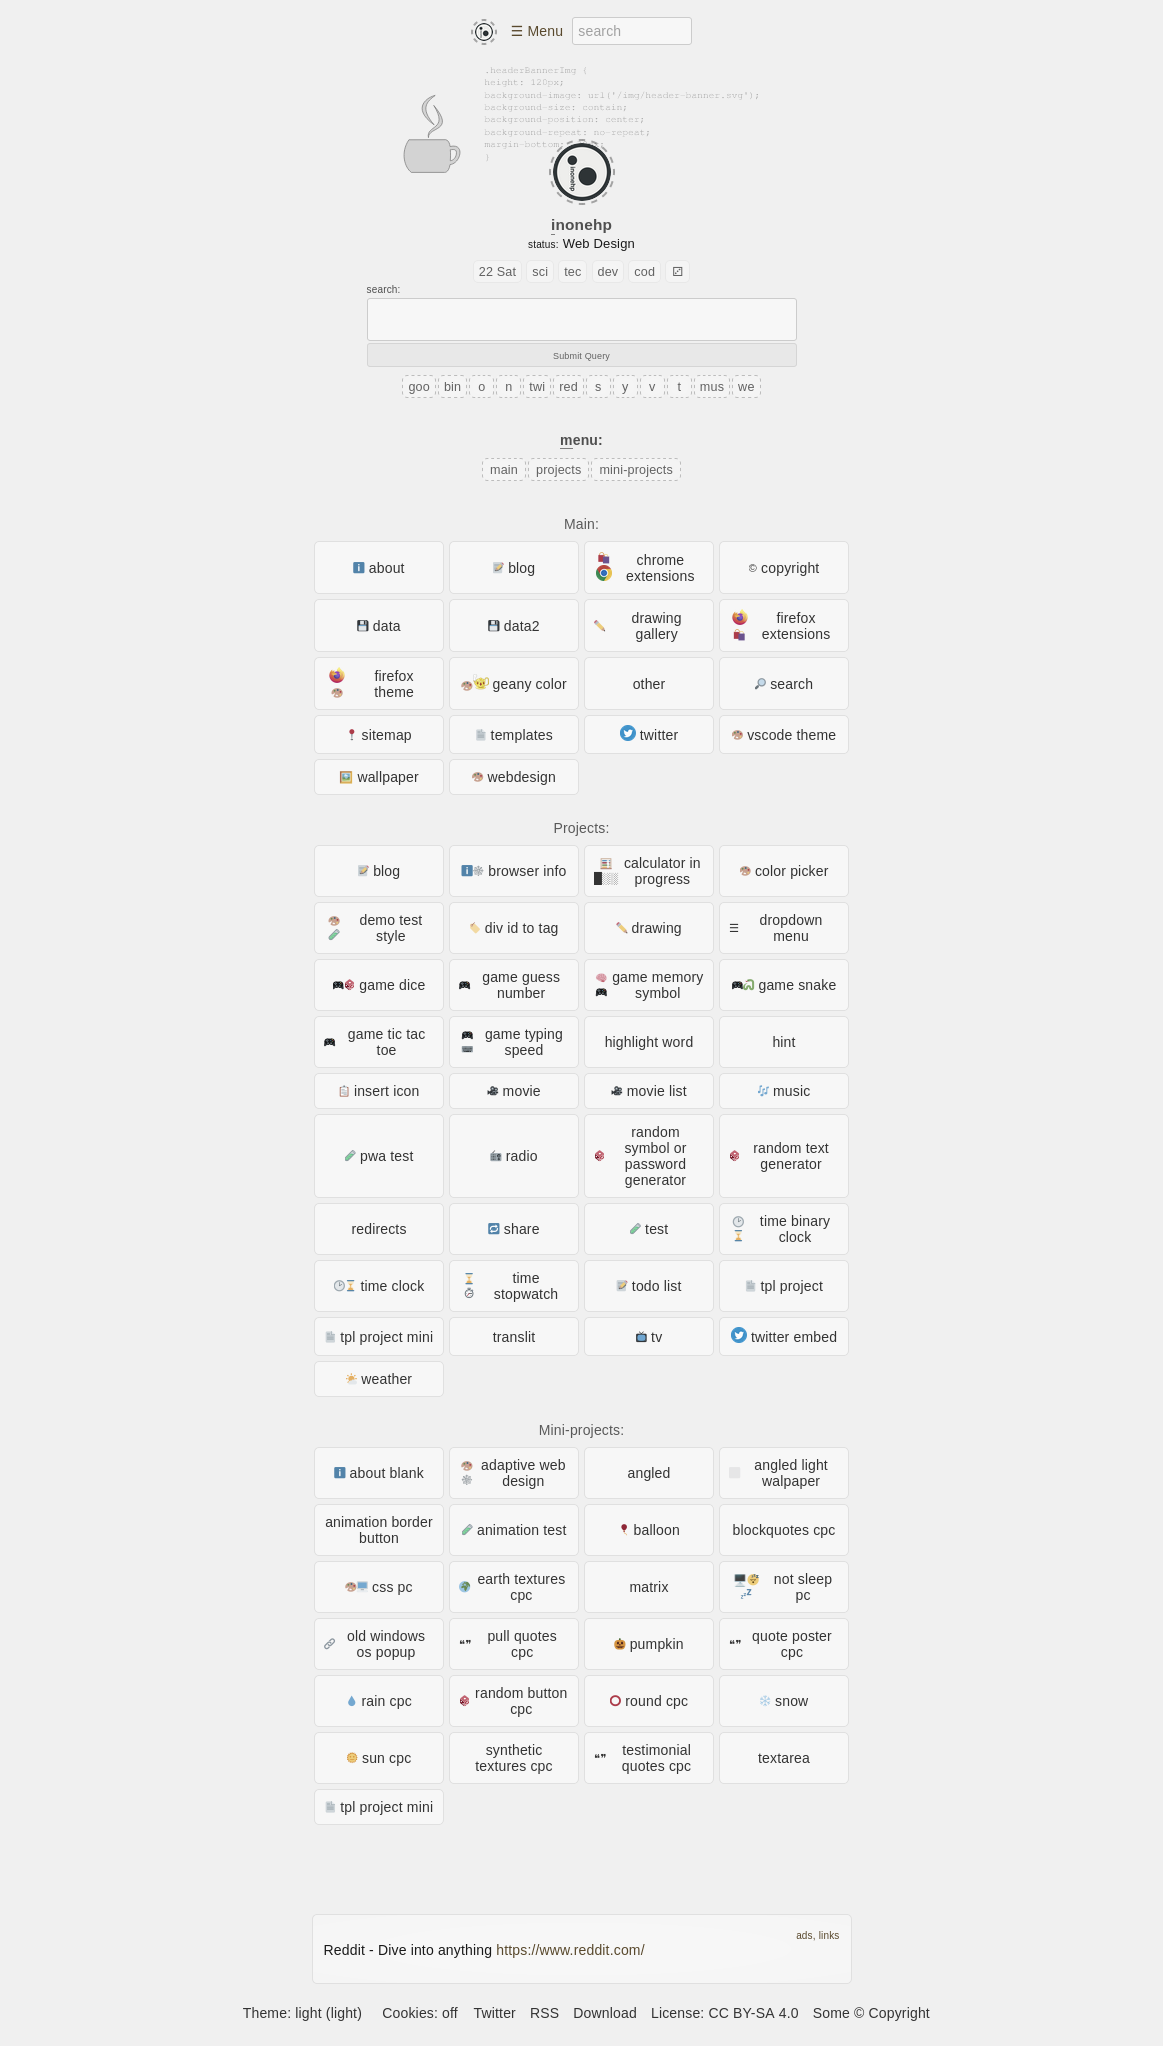
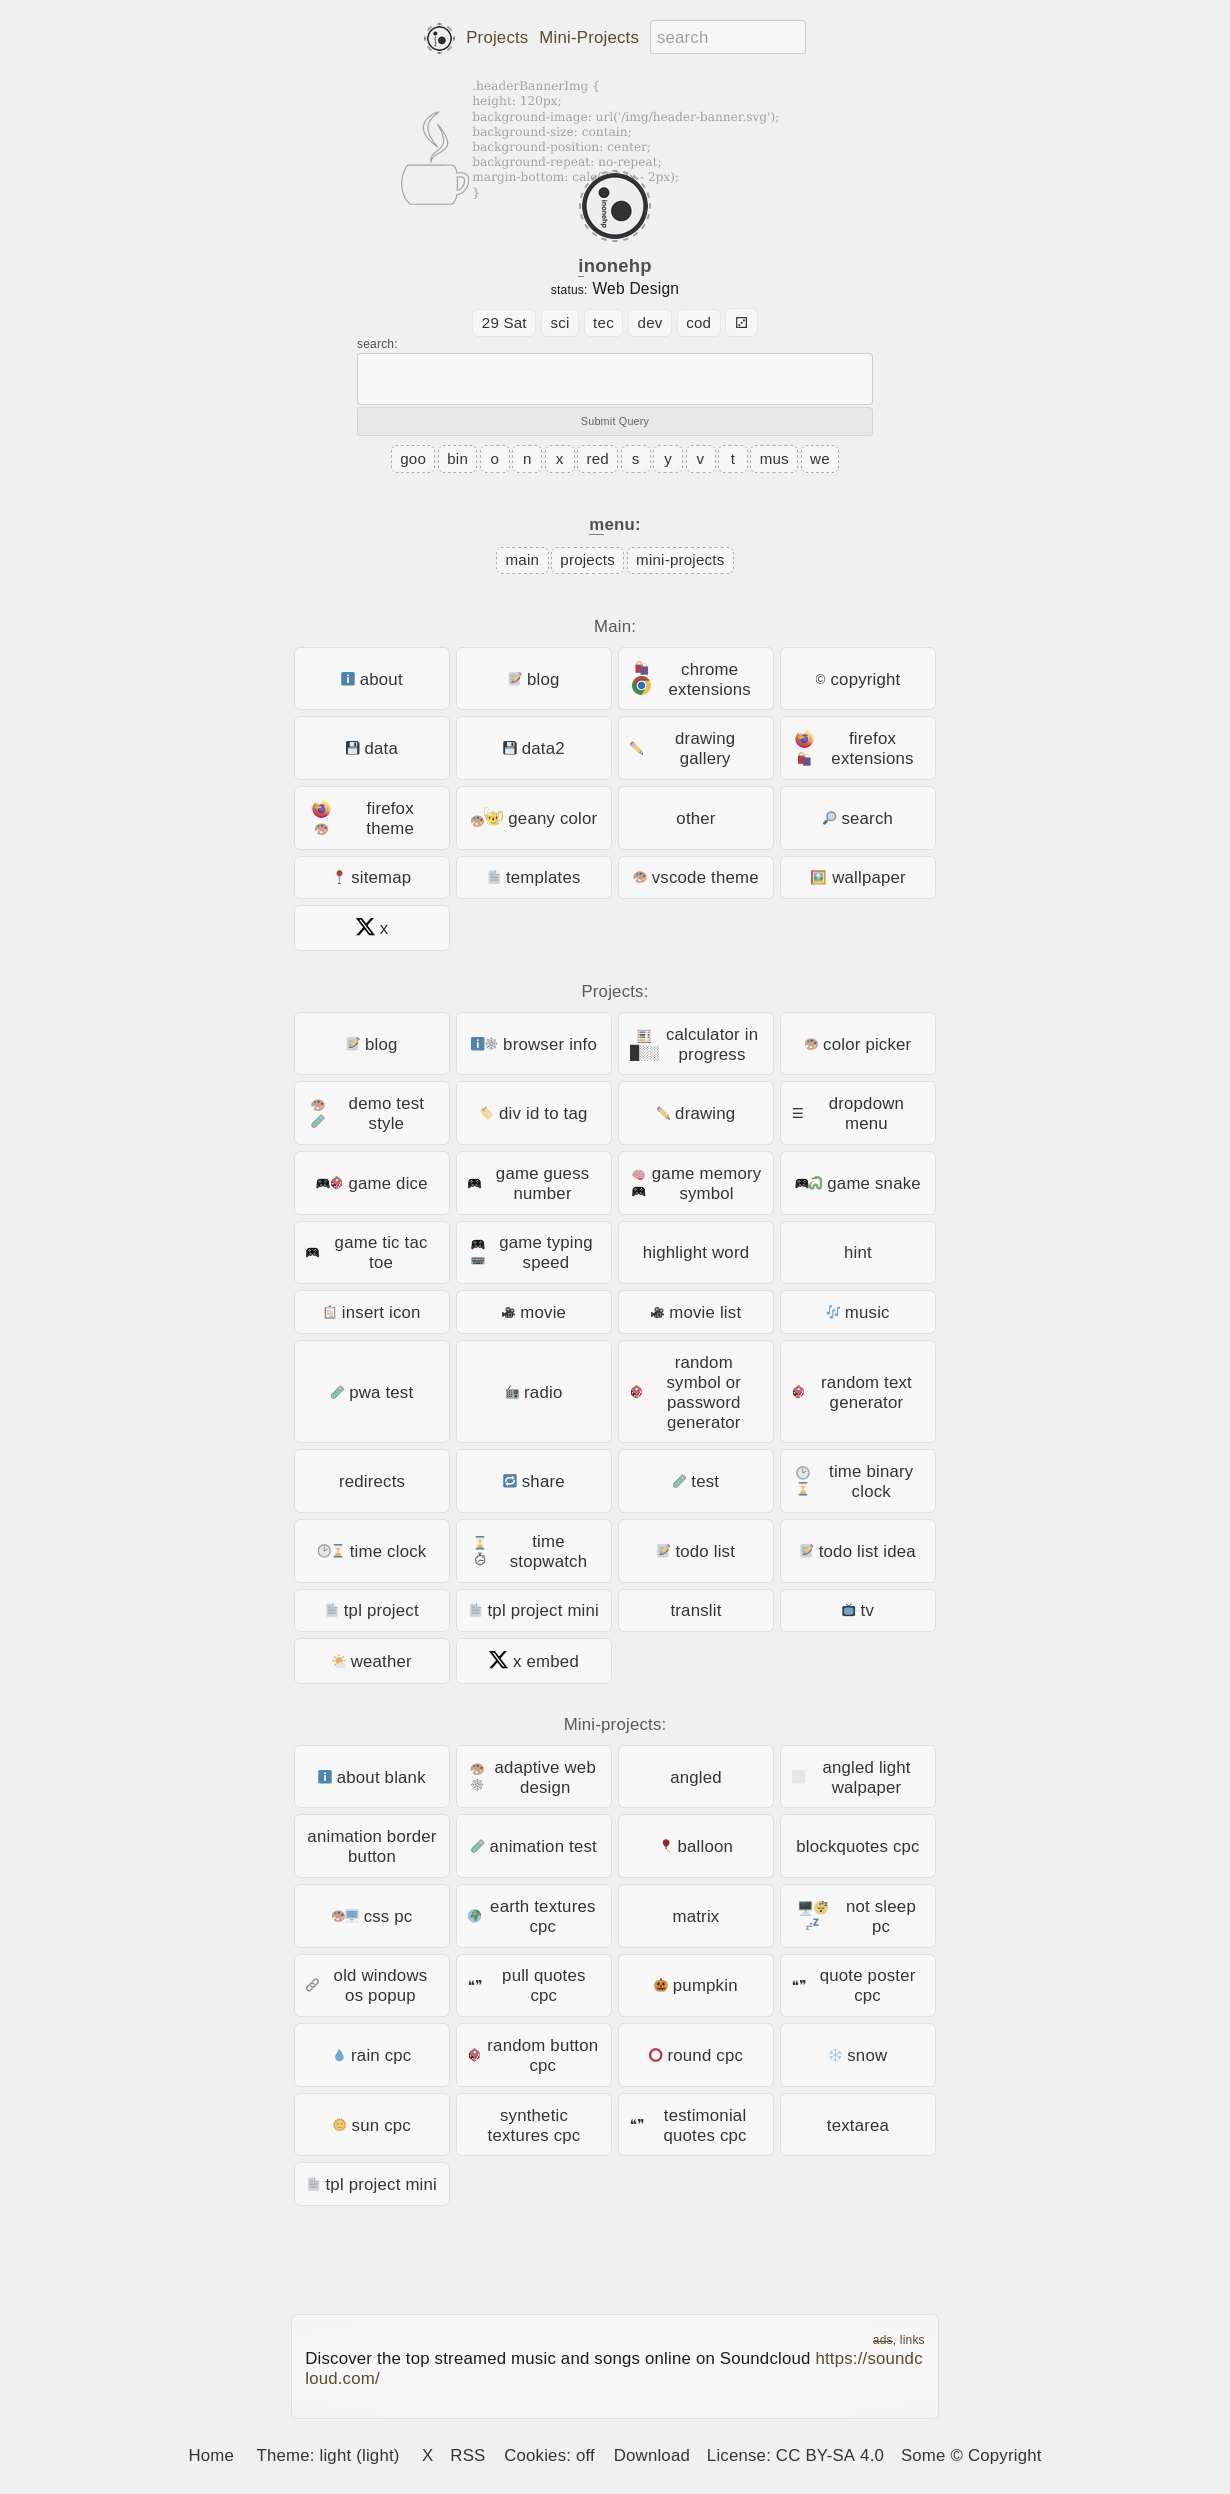
update

diff --git a/css/style.css b/css/style.css
@@ -31,6 +31,12 @@ background-size: 300px 300px;
 z-index: -2;
 }*/
 
+
+nav form { display: inline-block; max-width: 130px; }
+nav input[type=search] { padding: 5px; min-height: 10px; }
+
+
+
 .menu {
 display: grid;
 /*grid-template-areas: "a a a a a";*/
@@ -142,5 +148,18 @@ transform: rotate(360deg);
 from { transform: rotate(0); }
 to { transform: rotate(360deg); }
 }
+
+
+
+/* hide one menu when small width ans show dropdownMenuButton */
+.menuTop { display: inline-block; }
+.menuTop br { content: ' '; display: none; }
+#dropdownMenuButton { display: none; }
+@media(max-width: 600px) {
+.menuTop { display: none; }
+#dropdownMenuButton { display: inline-block; }
+}
+
+
 
 

diff --git a/css/style-main.css b/css/style-main.css
@@ -1,4 +1,4 @@
-/* v.12.30.3 */
+/* v.12.31.0 */
 
 * {  color-scheme: light dark; } /* view-source:about:blank */ /* fixed #fff blink */
 
@@ -70,8 +70,6 @@ nav button:hover { background: none;  }
 
 nav a:first-child, footer span:first-child, nav a:not(.dropdownMenuContent) { padding-left: 0; }
 footer span:last-child { padding-right: 0; }
-nav form { display: inline-block; max-width: 120px; }
-nav input[type=search] { padding: 5px; min-height: 10px; }
 
 h1, .h1 { font-size: calc(100% + 30%); }
 h2, .h2 { font-size: calc(100% + 25%); }

diff --git a/index.html b/index.html
@@ -107,9 +107,14 @@
 
 <!--<hr />-->
 
+<!-- start menuTop -->
+<div class="menuTop">
+<a class="brand" href="projects.html">projects</a><br>
+<a class="brand" href="mini-projects.html">mini-projects</a><br>
+</div>
+<!-- end menuTop -->
 
-
-<!-- start dropdown menu -->
+<!-- start dropdown menu, when small screen -->
 
 <!-- https://www.w3schools.com/howto/howto_js_dropdown.asp -->
 <button onclick="dropdownMenuFunction();" class="brand" id="dropdownMenuButton">☰ Menu</button>

diff --git a/mini-projects.html b/mini-projects.html
@@ -57,9 +57,14 @@
 
 <!--<hr />-->
 
+<!-- start menuTop -->
+<div class="menuTop">
+<a class="brand" href="projects.html">projects</a><br>
+<a class="active" href="mini-projects.html">mini-projects</a><br>
+</div>
+<!-- end menuTop -->
 
-
-<!-- start dropdown menu -->
+<!-- start dropdown menu, when small screen -->
 
 <!-- https://www.w3schools.com/howto/howto_js_dropdown.asp -->
 <button onclick="dropdownMenuFunction();" class="brand" id="dropdownMenuButton">☰ Menu</button>

diff --git a/projects.html b/projects.html
@@ -57,9 +57,14 @@
 
 <!--<hr />-->
 
+<!-- start menuTop -->
+<div class="menuTop">
+<a class="active" href="projects.html">projects</a><br>
+<a class="brand" href="mini-projects.html">mini-projects</a><br>
+</div>
+<!-- end menuTop -->
 
-
-<!-- start dropdown menu -->
+<!-- start dropdown menu, when small screen -->
 
 <!-- https://www.w3schools.com/howto/howto_js_dropdown.asp -->
 <button onclick="dropdownMenuFunction();" class="brand" id="dropdownMenuButton">☰ Menu</button>

diff --git a/about.html b/about.html
@@ -57,9 +57,14 @@
 
 <!--<hr />-->
 
+<!-- start menuTop -->
+<div class="menuTop">
+<a class="brand" href="projects.html">projects</a><br>
+<a class="brand" href="mini-projects.html">mini-projects</a><br>
+</div>
+<!-- end menuTop -->
 
-
-<!-- start dropdown menu -->
+<!-- start dropdown menu, when small screen -->
 
 <!-- https://www.w3schools.com/howto/howto_js_dropdown.asp -->
 <button onclick="dropdownMenuFunction();" class="brand" id="dropdownMenuButton">☰ Menu</button>

diff --git a/ads.html b/ads.html
@@ -57,9 +57,14 @@
 
 <!--<hr />-->
 
+<!-- start menuTop -->
+<div class="menuTop">
+<a class="brand" href="projects.html">projects</a><br>
+<a class="brand" href="mini-projects.html">mini-projects</a><br>
+</div>
+<!-- end menuTop -->
 
-
-<!-- start dropdown menu -->
+<!-- start dropdown menu, when small screen -->
 
 <!-- https://www.w3schools.com/howto/howto_js_dropdown.asp -->
 <button onclick="dropdownMenuFunction();" class="brand" id="dropdownMenuButton">☰ Menu</button>

diff --git a/app.html b/app.html
@@ -57,9 +57,14 @@
 
 <!--<hr />-->
 
+<!-- start menuTop -->
+<div class="menuTop">
+<a class="brand" href="projects.html">projects</a><br>
+<a class="brand" href="mini-projects.html">mini-projects</a><br>
+</div>
+<!-- end menuTop -->
 
-
-<!-- start dropdown menu -->
+<!-- start dropdown menu, when small screen -->
 
 <!-- https://www.w3schools.com/howto/howto_js_dropdown.asp -->
 <button onclick="dropdownMenuFunction();" class="brand" id="dropdownMenuButton">☰ Menu</button>

diff --git a/blog.html b/blog.html
@@ -57,9 +57,14 @@
 
 <!--<hr />-->
 
+<!-- start menuTop -->
+<div class="menuTop">
+<a class="brand" href="projects.html">projects</a><br>
+<a class="brand" href="mini-projects.html">mini-projects</a><br>
+</div>
+<!-- end menuTop -->
 
-
-<!-- start dropdown menu -->
+<!-- start dropdown menu, when small screen -->
 
 <!-- https://www.w3schools.com/howto/howto_js_dropdown.asp -->
 <button onclick="dropdownMenuFunction();" class="brand" id="dropdownMenuButton">☰ Menu</button>

diff --git a/chrome-extensions.html b/chrome-extensions.html
@@ -57,9 +57,14 @@
 
 <!--<hr />-->
 
+<!-- start menuTop -->
+<div class="menuTop">
+<a class="brand" href="projects.html">projects</a><br>
+<a class="brand" href="mini-projects.html">mini-projects</a><br>
+</div>
+<!-- end menuTop -->
 
-
-<!-- start dropdown menu -->
+<!-- start dropdown menu, when small screen -->
 
 <!-- https://www.w3schools.com/howto/howto_js_dropdown.asp -->
 <button onclick="dropdownMenuFunction();" class="brand" id="dropdownMenuButton">☰ Menu</button>

diff --git a/copyright.html b/copyright.html
@@ -57,9 +57,14 @@
 
 <!--<hr />-->
 
+<!-- start menuTop -->
+<div class="menuTop">
+<a class="brand" href="projects.html">projects</a><br>
+<a class="brand" href="mini-projects.html">mini-projects</a><br>
+</div>
+<!-- end menuTop -->
 
-
-<!-- start dropdown menu -->
+<!-- start dropdown menu, when small screen -->
 
 <!-- https://www.w3schools.com/howto/howto_js_dropdown.asp -->
 <button onclick="dropdownMenuFunction();" class="brand" id="dropdownMenuButton">☰ Menu</button>

diff --git a/data.html b/data.html
@@ -57,9 +57,14 @@
 
 <!--<hr />-->
 
+<!-- start menuTop -->
+<div class="menuTop">
+<a class="brand" href="projects.html">projects</a><br>
+<a class="brand" href="mini-projects.html">mini-projects</a><br>
+</div>
+<!-- end menuTop -->
 
-
-<!-- start dropdown menu -->
+<!-- start dropdown menu, when small screen -->
 
 <!-- https://www.w3schools.com/howto/howto_js_dropdown.asp -->
 <button onclick="dropdownMenuFunction();" class="brand" id="dropdownMenuButton">☰ Menu</button>
